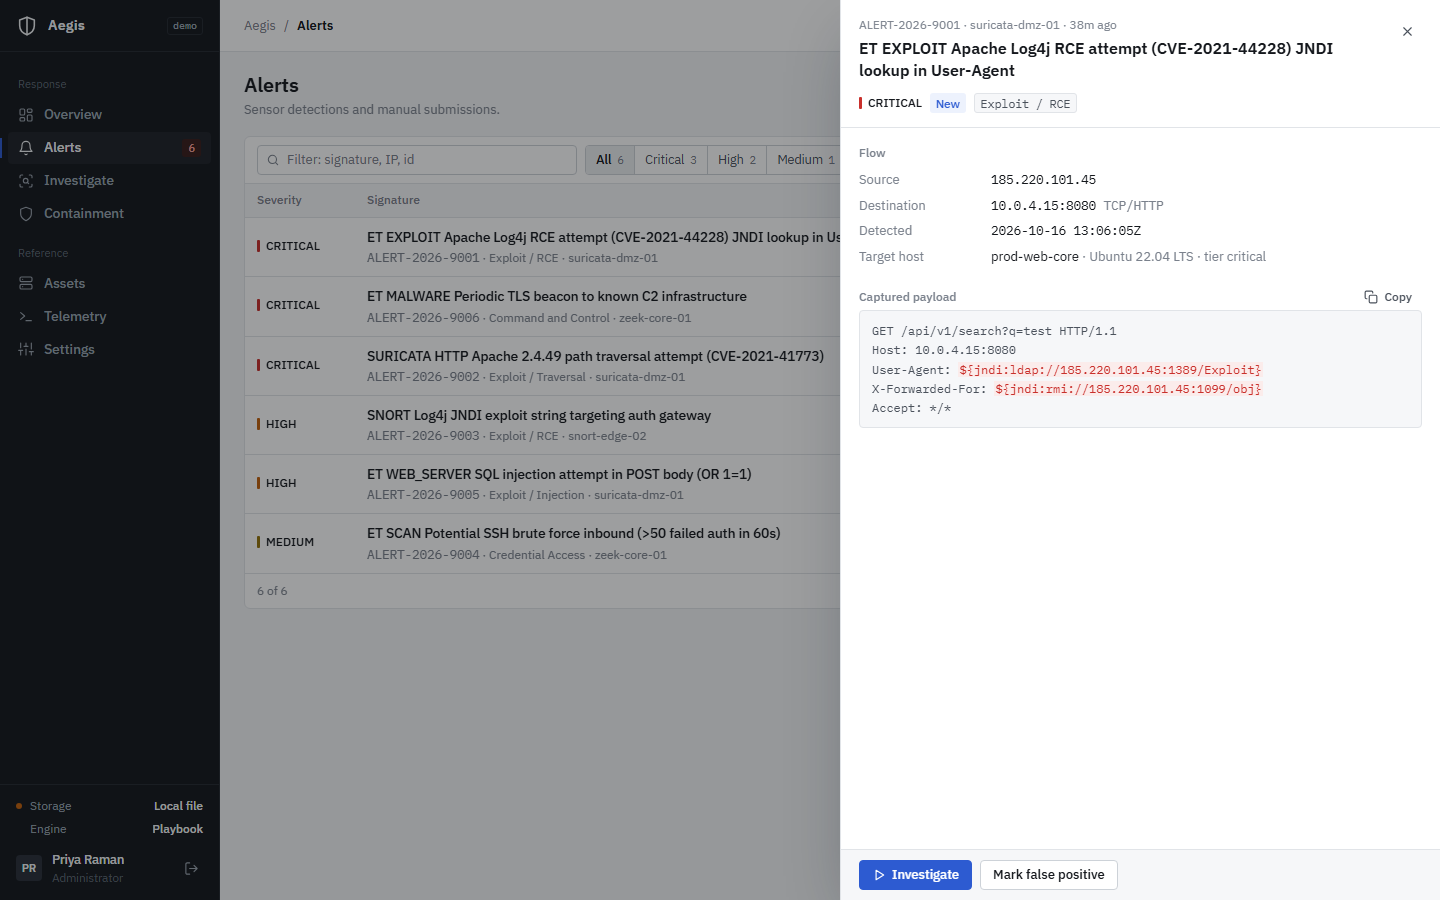
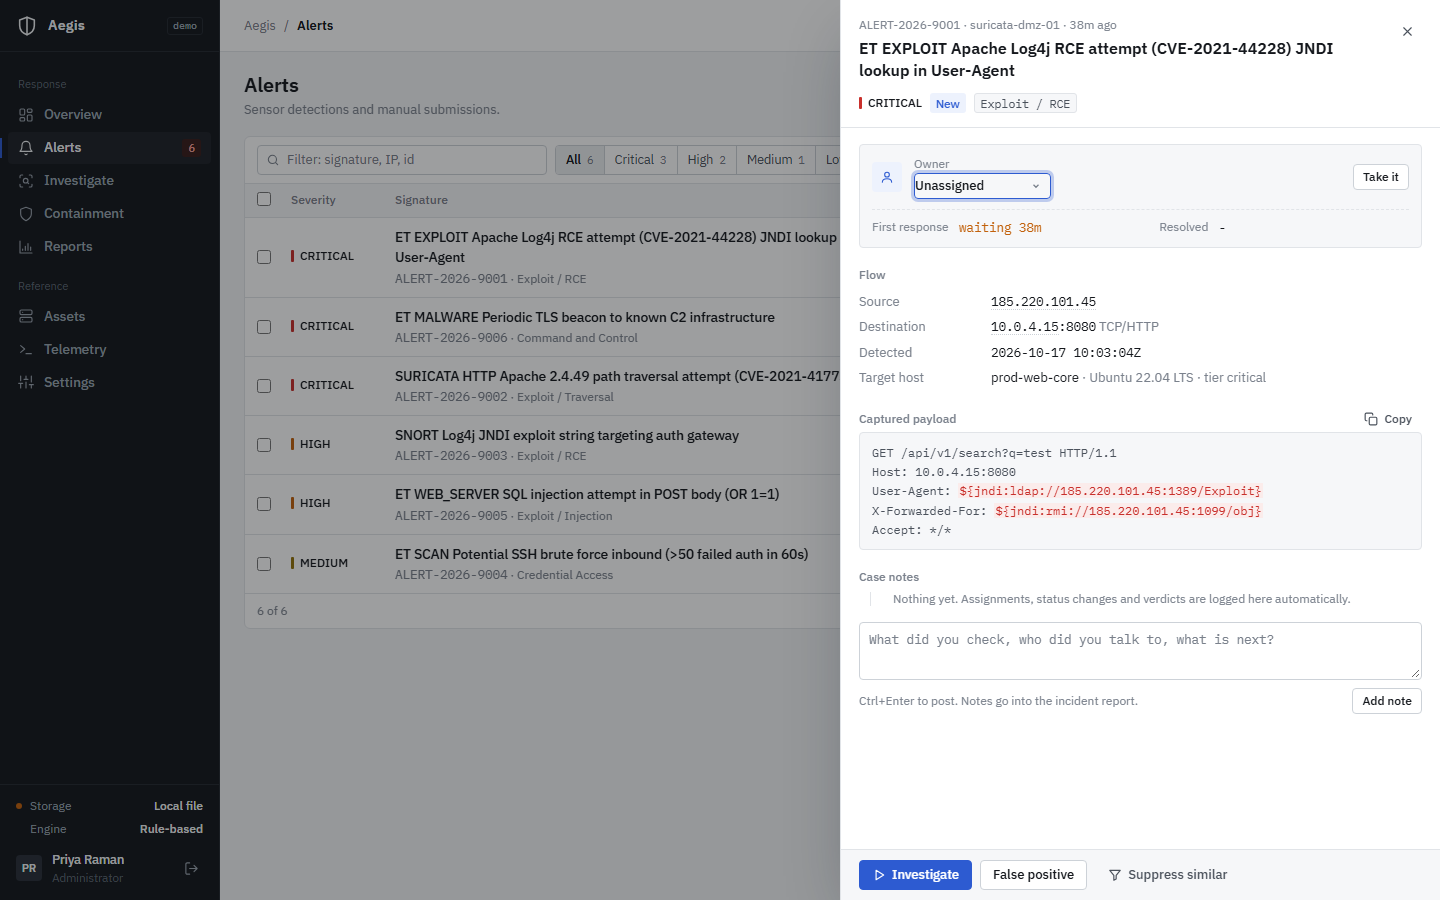
Refresh README screenshots for the current console
Recaptured every screen from a local demo server and added the IP profile
(live threat intel) and Reports pages.

diff --git a/scripts/screenshots.js b/scripts/screenshots.js
@@ -49,6 +49,13 @@ const OUT = path.join(__dirname, '..', 'docs', 'images');
   await shot('telemetry');
   await open('settings', 1500);
   await shot('settings');
+  await open('reports', 2000);
+  await shot('reports');
+  await open('ip/185.220.101.45', 6000);
+  await shot('ip-profile');
+  // Overview again, now that an investigation and rules exist.
+  await open('overview', 1800);
+  await shot('overview');
 
   const darkCtx = await browser.newContext({ viewport: { width: 1440, height: 900 } });
   await darkCtx.addCookies([cookie]);

diff --git a/README.md b/README.md
@@ -40,7 +40,9 @@ The **rule-based playbook** needs no API key: the same evidence always gives the
 | ![Alerts](docs/images/alerts.png) | ![Investigation](docs/images/investigation.png) |
 | Alert queue with severity filters | Live investigation timeline, verdict and report |
 | ![Containment](docs/images/containment.png) | ![Assets](docs/images/assets.png) |
-| Rules with enforcement read-back | Inventory and NVD-backed CVE records |
+| Rules with enforcement read-back | Inventory from Nmap, CMDB or the agent, matched to NVD CVEs |
+| ![IP profile](docs/images/ip-profile.png) | ![Reports](docs/images/reports.png) |
+| IP profile with live blocklist, GreyNoise and Shodan data | SLA, MTTA/MTTR and ATT&CK coverage |
 | ![Settings](docs/images/settings.png) | ![Dark theme](docs/images/overview-dark.png) |
 | Team, API keys, integrations, policy | Dark theme |
 
